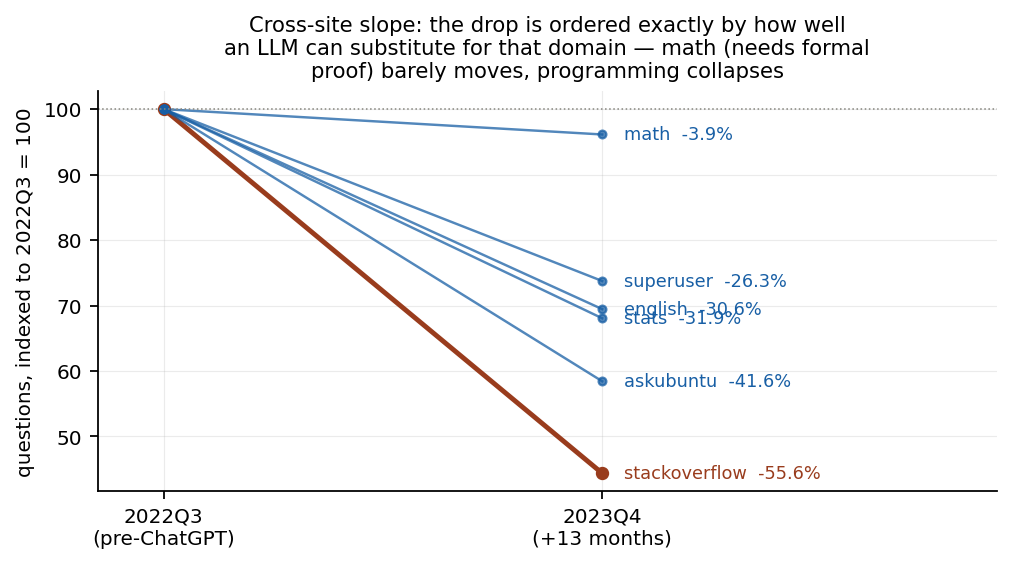
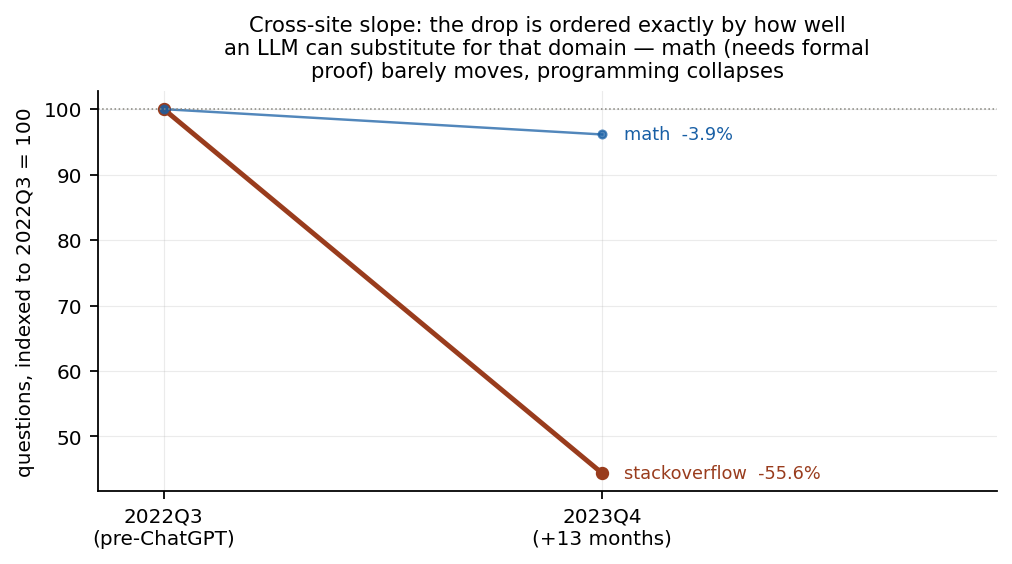
rename csv outputs, fix report period

diff --git a/src/audit.py b/src/audit.py
@@ -32,8 +32,7 @@ def main():
     print("=" * 78)
     print("A. 跨站点：pp 口径 vs log 口径")
     print("=" * 78)
-    d = pd.concat([pd.read_csv(f) for f in sorted(PROC.glob("raw_counts_sites_*.csv"))],
-                  ignore_index=True)
+    d = pd.read_csv(PROC / "raw_counts_sites.csv")
     d = d.drop_duplicates(["site", "quarter"], keep="last")
     w = d.pivot_table(index="site", columns="quarter", values="questions")
 
@@ -99,8 +98,8 @@ def main():
     print("=" * 78)
     print("C. tag 面板：MATURE 组内是否真的无梯度")
     print("=" * 78)
-    t = pd.concat([pd.read_csv(f) for f in sorted(PROC.glob("raw_counts_tags_*.csv"))],
-                  ignore_index=True).drop_duplicates(["unit", "quarter"], keep="last")
+    t = pd.read_csv(PROC / "raw_counts_tags.csv").drop_duplicates(
+        ["unit", "quarter"], keep="last")
     tw = t.pivot_table(index="unit", columns="quarter", values="questions")
     mature = ["python", "javascript", "java", "c#", "php", "sql"]
     base = tw["2022Q3"]

diff --git a/src/analyze.py b/src/analyze.py
@@ -52,11 +52,11 @@ def qnum(q: str) -> int:
 
 
 def load_panel(scope: str = "all") -> pd.DataFrame:
-    csvs = sorted(PROC.glob("raw_counts_tags_*.csv"))
-    if not csvs:
+    path = PROC / "raw_counts_tags.csv"
+    if not path.exists():
         sys.exit("run src/collect.py --plan tags first")
-    df = pd.concat([pd.read_csv(f) for f in csvs], ignore_index=True)
-    df = df.dropna(subset=["questions"]).drop_duplicates(["unit", "quarter"], keep="last")
+    df = pd.read_csv(path).dropna(subset=["questions"]).drop_duplicates(
+        ["unit", "quarter"], keep="last")
     df["questions"] = df["questions"].astype(int)
     intensity = json.loads((PROC / "tag_intensity.json").read_text())
 

diff --git a/src/analyze_sites.py b/src/analyze_sites.py
@@ -50,10 +50,10 @@ def qnum(q: str) -> int:
 
 
 def load_site_panel() -> pd.DataFrame:
-    fs = sorted(PROC.glob("raw_counts_sites_*.csv"))
-    if not fs:
+    path = PROC / "raw_counts_sites.csv"
+    if not path.exists():
         raise SystemExit("no site panel found; run: python src/collect.py --plan sites")
-    df = pd.concat([pd.read_csv(f) for f in fs], ignore_index=True)
+    df = pd.read_csv(path)
     df = df[["site", "quarter", "questions"]].copy()
     chk = PROC / "sitewide_check.csv"
     if chk.exists():                       # 合并早期稀疏验证点（完整面板优先）

diff --git a/src/collect.py b/src/collect.py
@@ -252,8 +252,9 @@ def run(plan: str, budget: int | None, dry_run: bool):
 
     import csv
     if rows:
-        stamp = datetime.now().strftime("%Y%m%d")
-        out = PROCESSED / f"raw_counts_{plan}_{stamp}.csv"
+        # 固定文件名、每次覆盖：重跑不会堆积重复分片，
+        # 结果始终与 data/raw 中的原始响应一一对应。
+        out = PROCESSED / f"raw_counts_{plan}.csv"
         with out.open("w", newline="") as f:
             w = csv.DictWriter(f, fieldnames=list(rows[0].keys()))
             w.writeheader()

diff --git a/README.md b/README.md
@@ -15,16 +15,20 @@
 ├── src/
 │   ├── collect.py          # 配额感知 + 断点续传的采集器（支持 SE_API_KEY）
 │   ├── verify_sitewide.py  # 排除删帖/重打标签技术假象的验证
-│   ├── analyze.py          # TWFE / PPML / wild bootstrap / 安慰剂 / Honest DiD
-│   └── figures.py          # 全部图表
+│   ├── analyze.py          # tag 面板：TWFE / PPML / wild bootstrap / 安慰剂 / Honest DiD
+│   ├── analyze_sites.py    # 跨站点面板：以 Mathematics 为 numeraire 的相对对数差分 DiD
+│   ├── figures.py          # tag 面板图表（fig1–fig5）
+│   ├── figures_sites.py    # 跨站点图表（fig6–fig8）
+│   └── audit.py            # 发布前数字审计：用原始数据重算每条公开断言
 ├── data/
 │   ├── raw/                # API 原始响应缓存（重跑不消耗配额）
 │   └── processed/          # 面板 CSV + 处理强度 JSON
 ├── outputs/
 │   ├── report.md           # 完整分析报告
-│   ├── figures/            # fig1–fig5
+│   ├── figures/            # fig1–fig8（9 张）
 │   ├── dashboard/index.html
-│   └── results.json
+│   ├── results.json        # tag 面板估计结果
+│   └── results_sites.json   # 跨站点面板估计结果
 ```
 
 ## 复现
@@ -55,7 +59,7 @@ python src/figures.py
 | php | 1,395,083 |
 | sql | 607,492 |
 | sveltekit | 308 |
-| openai-api | 42 |
 | htmx | 73 |
+| openai-api | 42 |
 | langchain | 1 |
 | bun | **0**（ChatGPT 发布时该技术栈尚未存在） |
